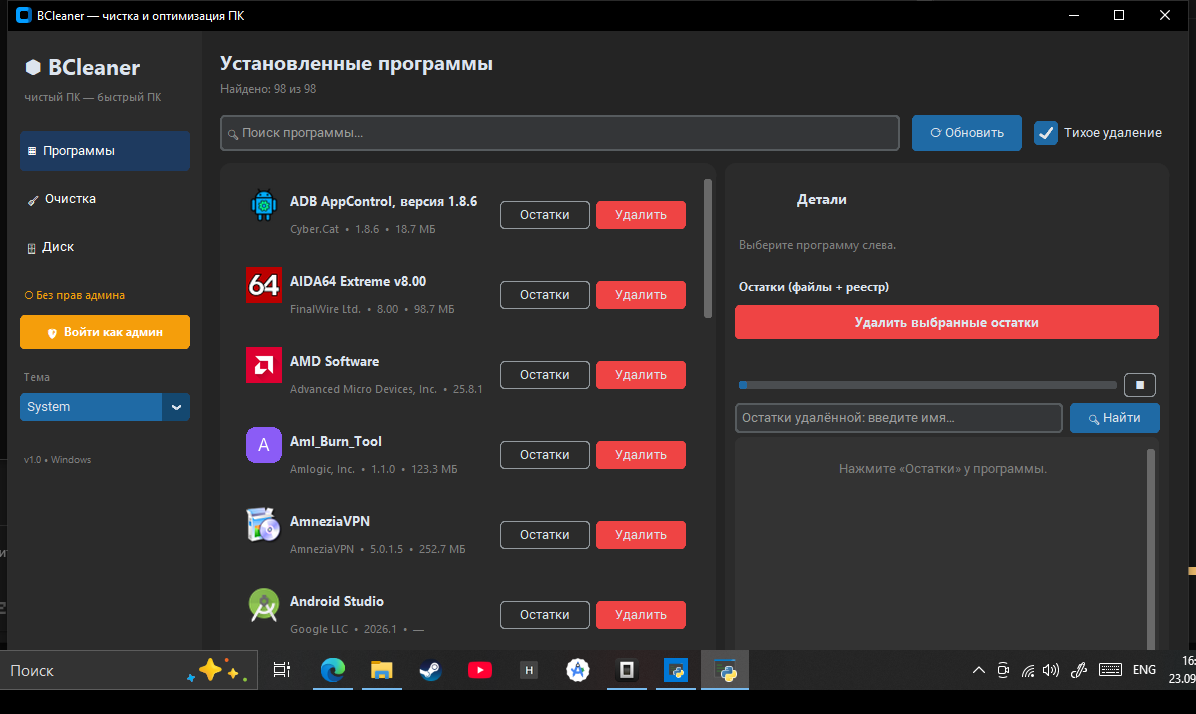
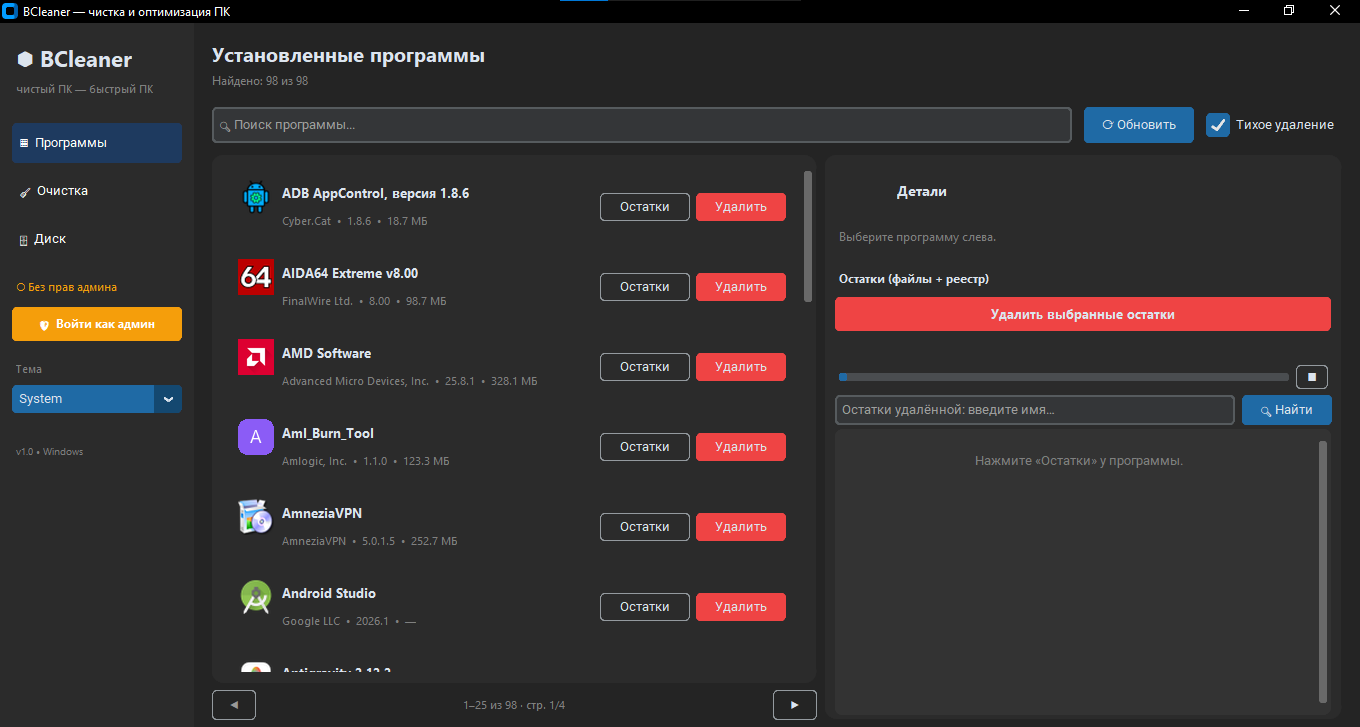
Лого окна через iconbitmap, скрин пользователя, assets в сборку

diff --git a/ui/app.py b/ui/app.py
@@ -149,6 +149,18 @@ class BCleanerApp(ctk.CTk):
         self.title("BCleaner — чистка и оптимизация ПК")
         self.geometry("1180x720")
         self.minsize(1000, 620)
+        # Иконка окна/таскбара: только iconbitmap — CTk при старте затирает
+        # iconphoto своей CustomTkinter_icon_Windows.ico.
+        # В собранном exe ресурсы лежат в sys._MEIPASS (--add-data assets),
+        # в исходниках — в корне проекта.
+        try:
+            import sys as _sys
+            _res = Path(_sys._MEIPASS) if getattr(_sys, "frozen", False) else _base_dir()
+            _ico = _res / "assets" / "icon.ico"
+            if _ico.is_file():
+                self.iconbitmap(str(_ico))
+        except Exception:
+            pass
 
         self.cfg = cfg
         self.all_apps: list[apps_core.AppInfo] = []

diff --git a/README.md b/README.md
@@ -22,7 +22,7 @@ python main.py
 ```powershell
 pip install pyinstaller
 pyinstaller --noconfirm --clean --windowed --onefile --name BCleaner `
-  --icon assets\icon.ico --collect-all customtkinter main.py
+  --icon assets\icon.ico --add-data "assets;assets" --collect-all customtkinter main.py
 ```
 Готовый файл: `dist\BCleaner.exe` (один файл, запускается без Python).
 
